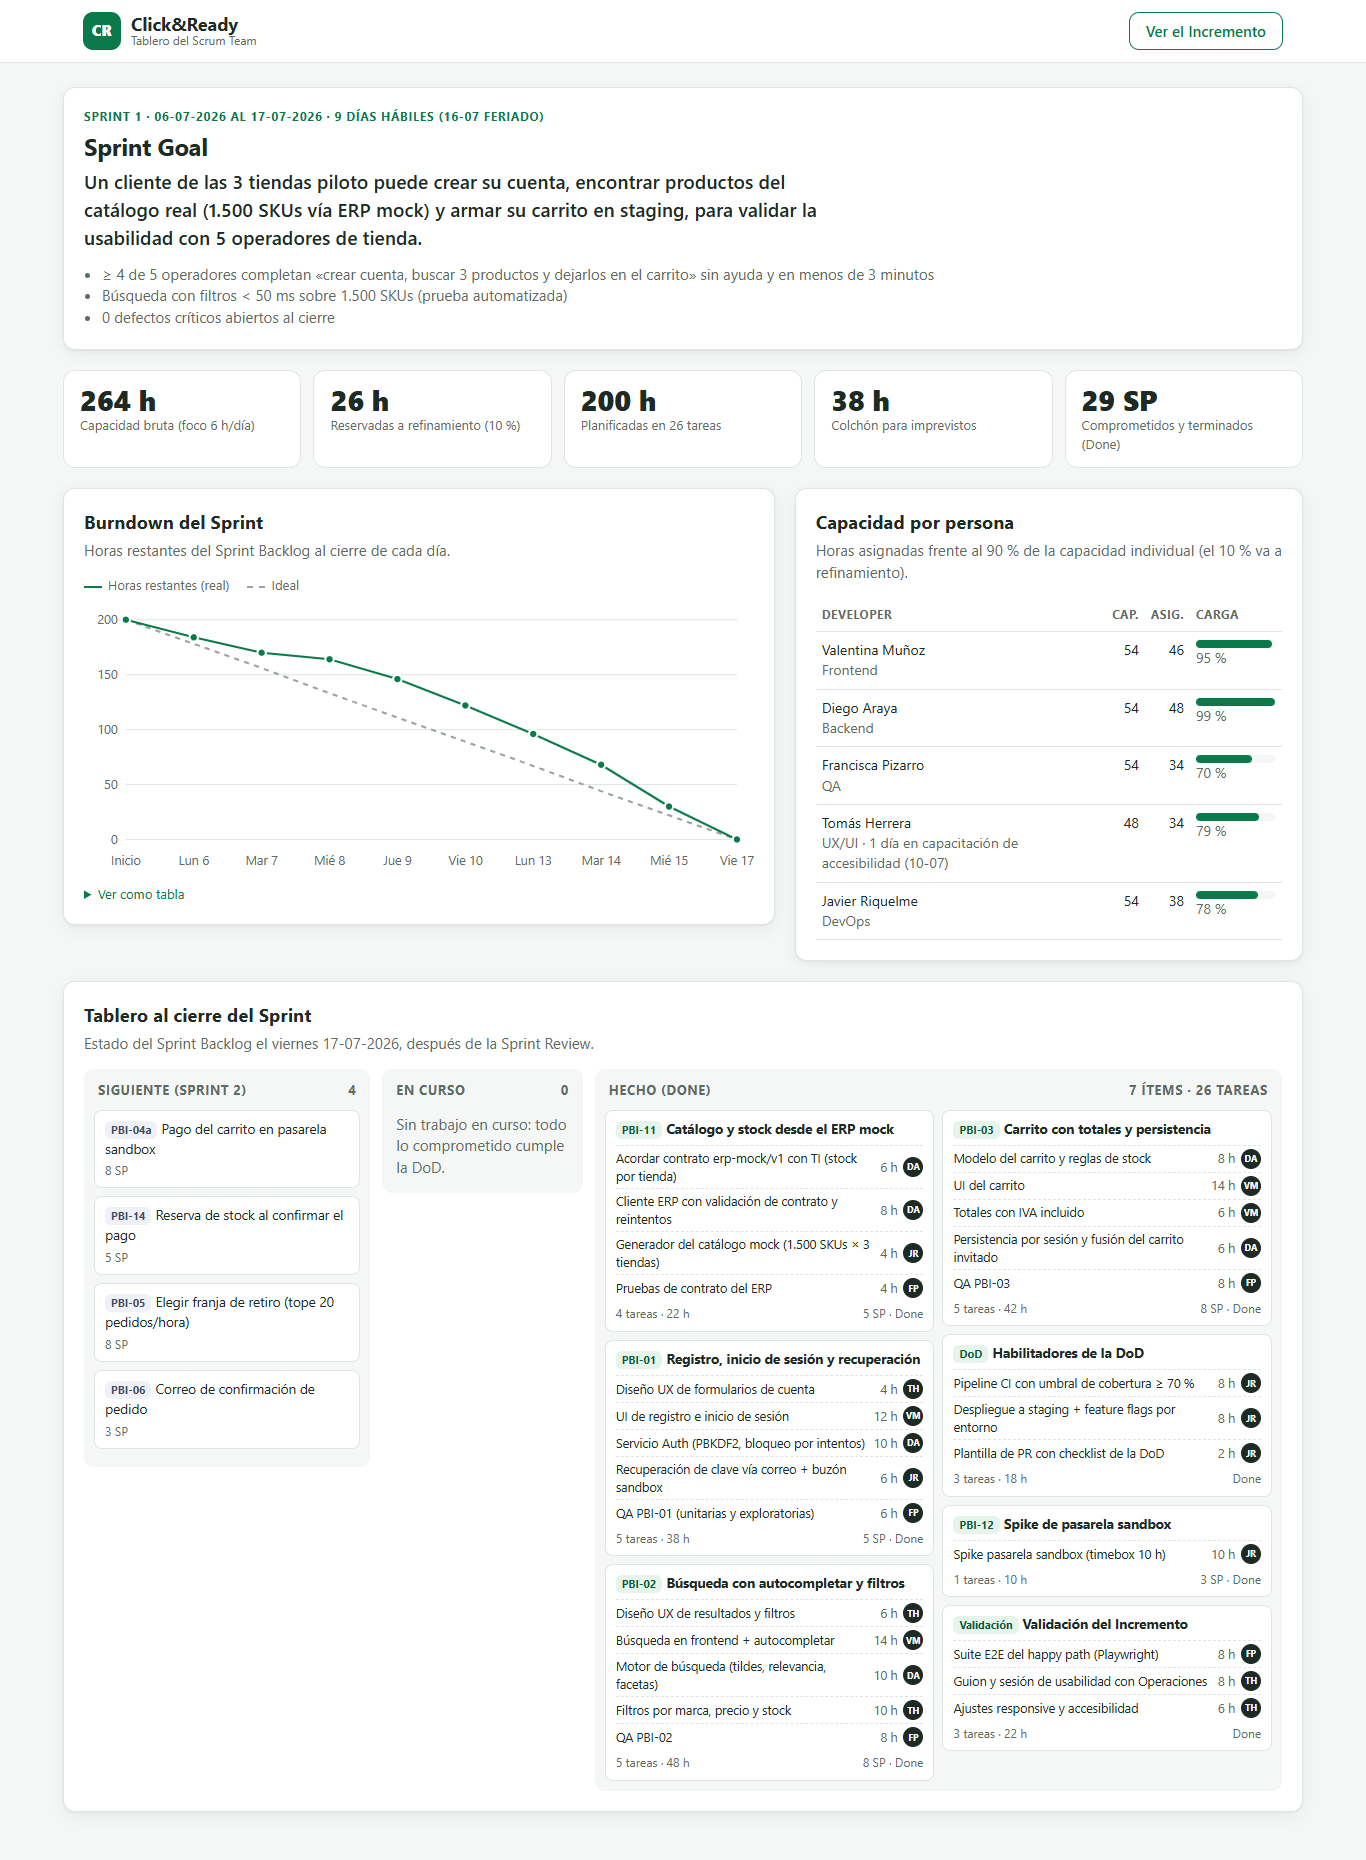
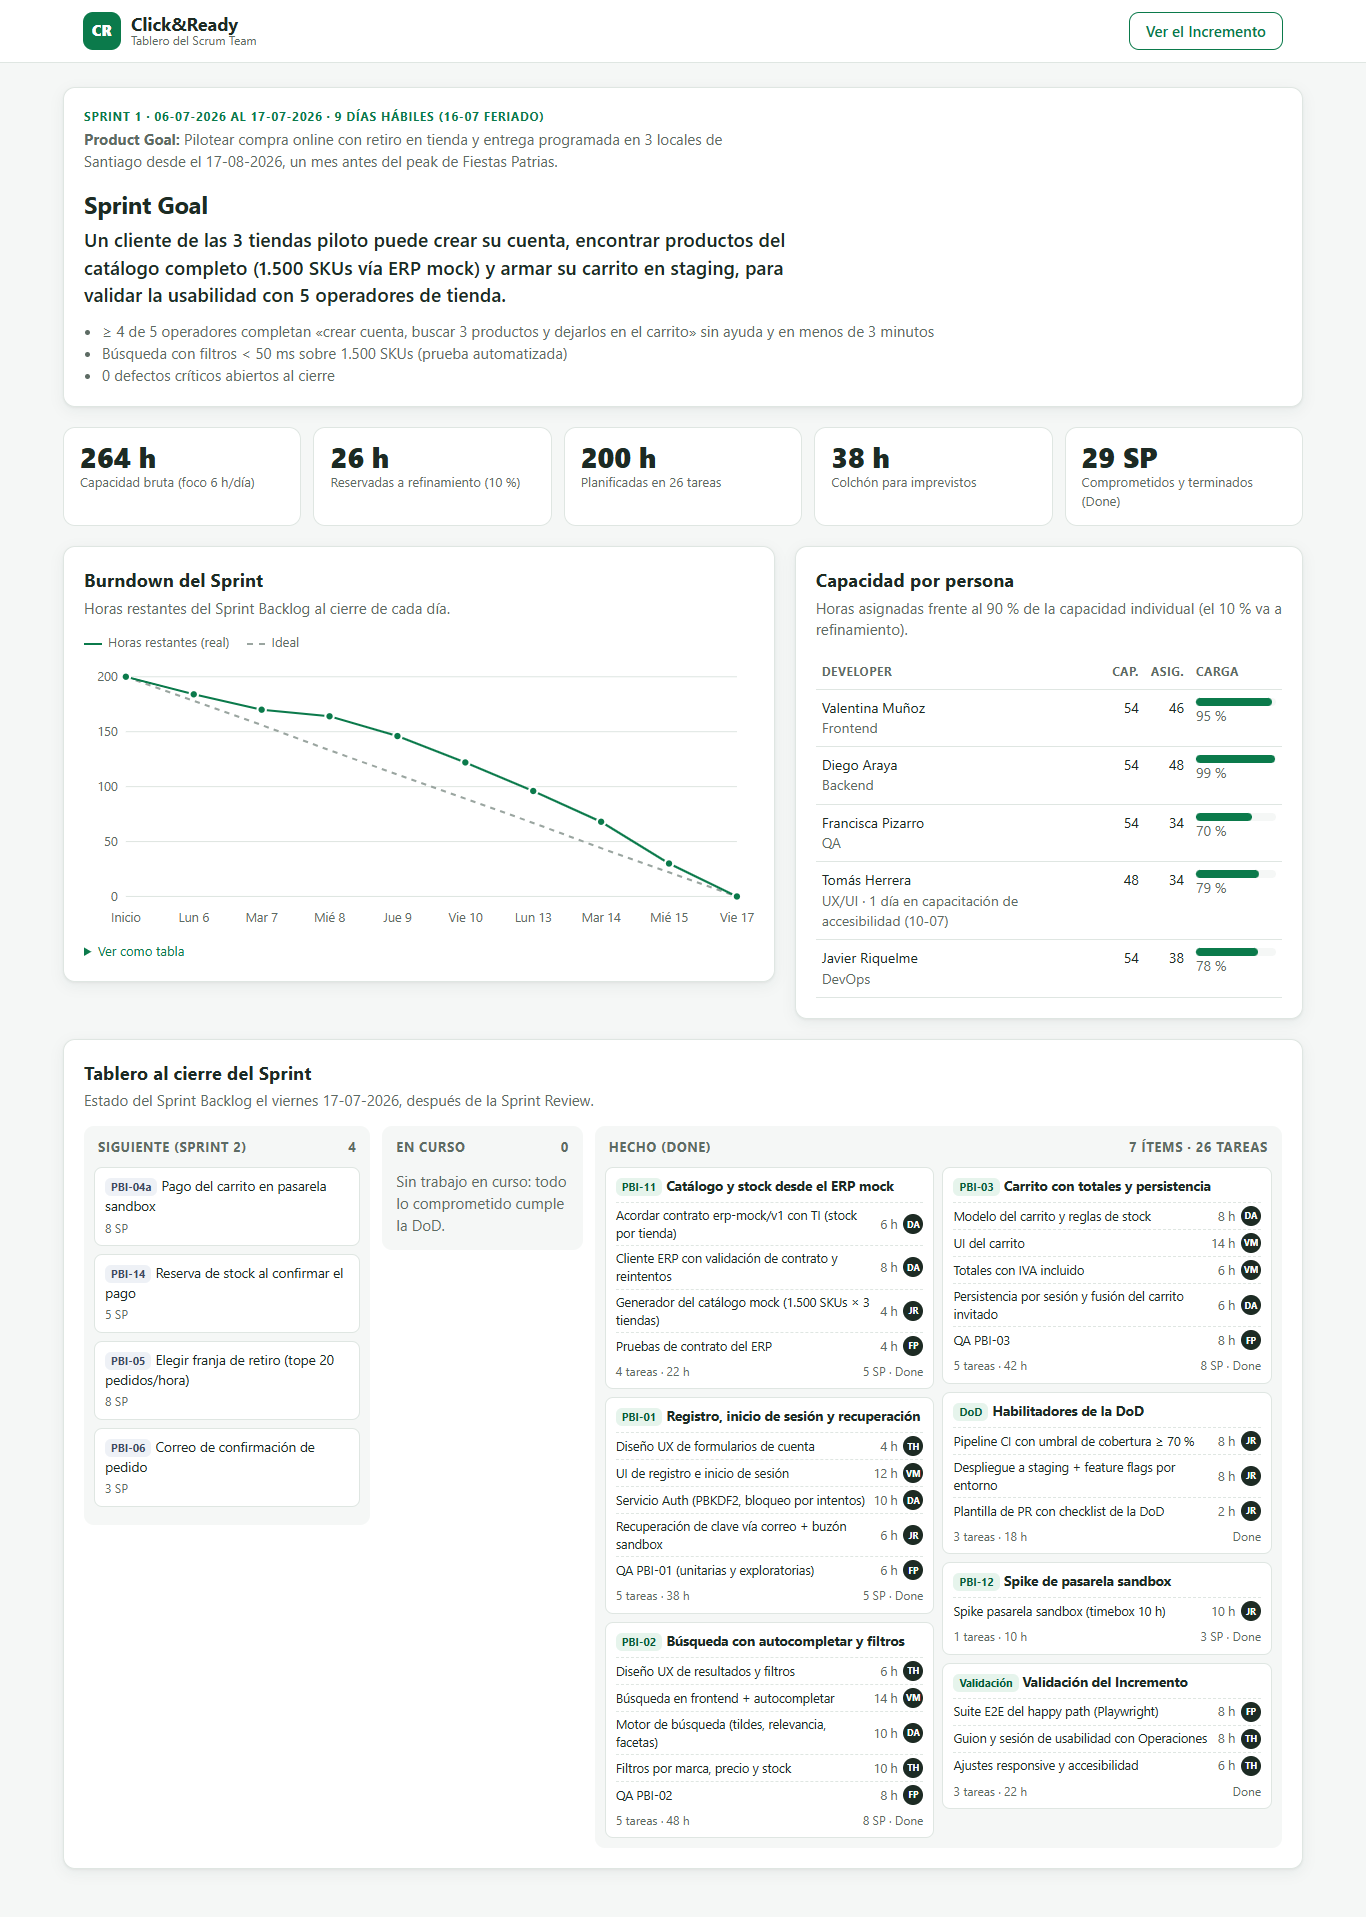
docs: precisa el Sprint Goal (catalogo completo del ERP mock) y actualiza el tablero
El objetivo decia "catalogo real" aunque el catalogo viene de un ERP simulado.
Se actualizan las capturas del tablero, que ahora muestra el Product Goal.

diff --git a/README.md b/README.md
@@ -16,7 +16,7 @@ Este repositorio contiene el **Incremento del Sprint 1** (6 al 17 de julio de 20
 
 ## Sprint Goal
 
-> Un cliente de las 3 tiendas piloto puede crear su cuenta, encontrar productos del catálogo real
+> Un cliente de las 3 tiendas piloto puede crear su cuenta, encontrar productos del catálogo completo
 > (1.500 SKUs vía ERP mock) y armar su carrito en staging, para validar la usabilidad con 5 operadores de tienda.
 
 | PBI | Historia de usuario | SP | Estado |
